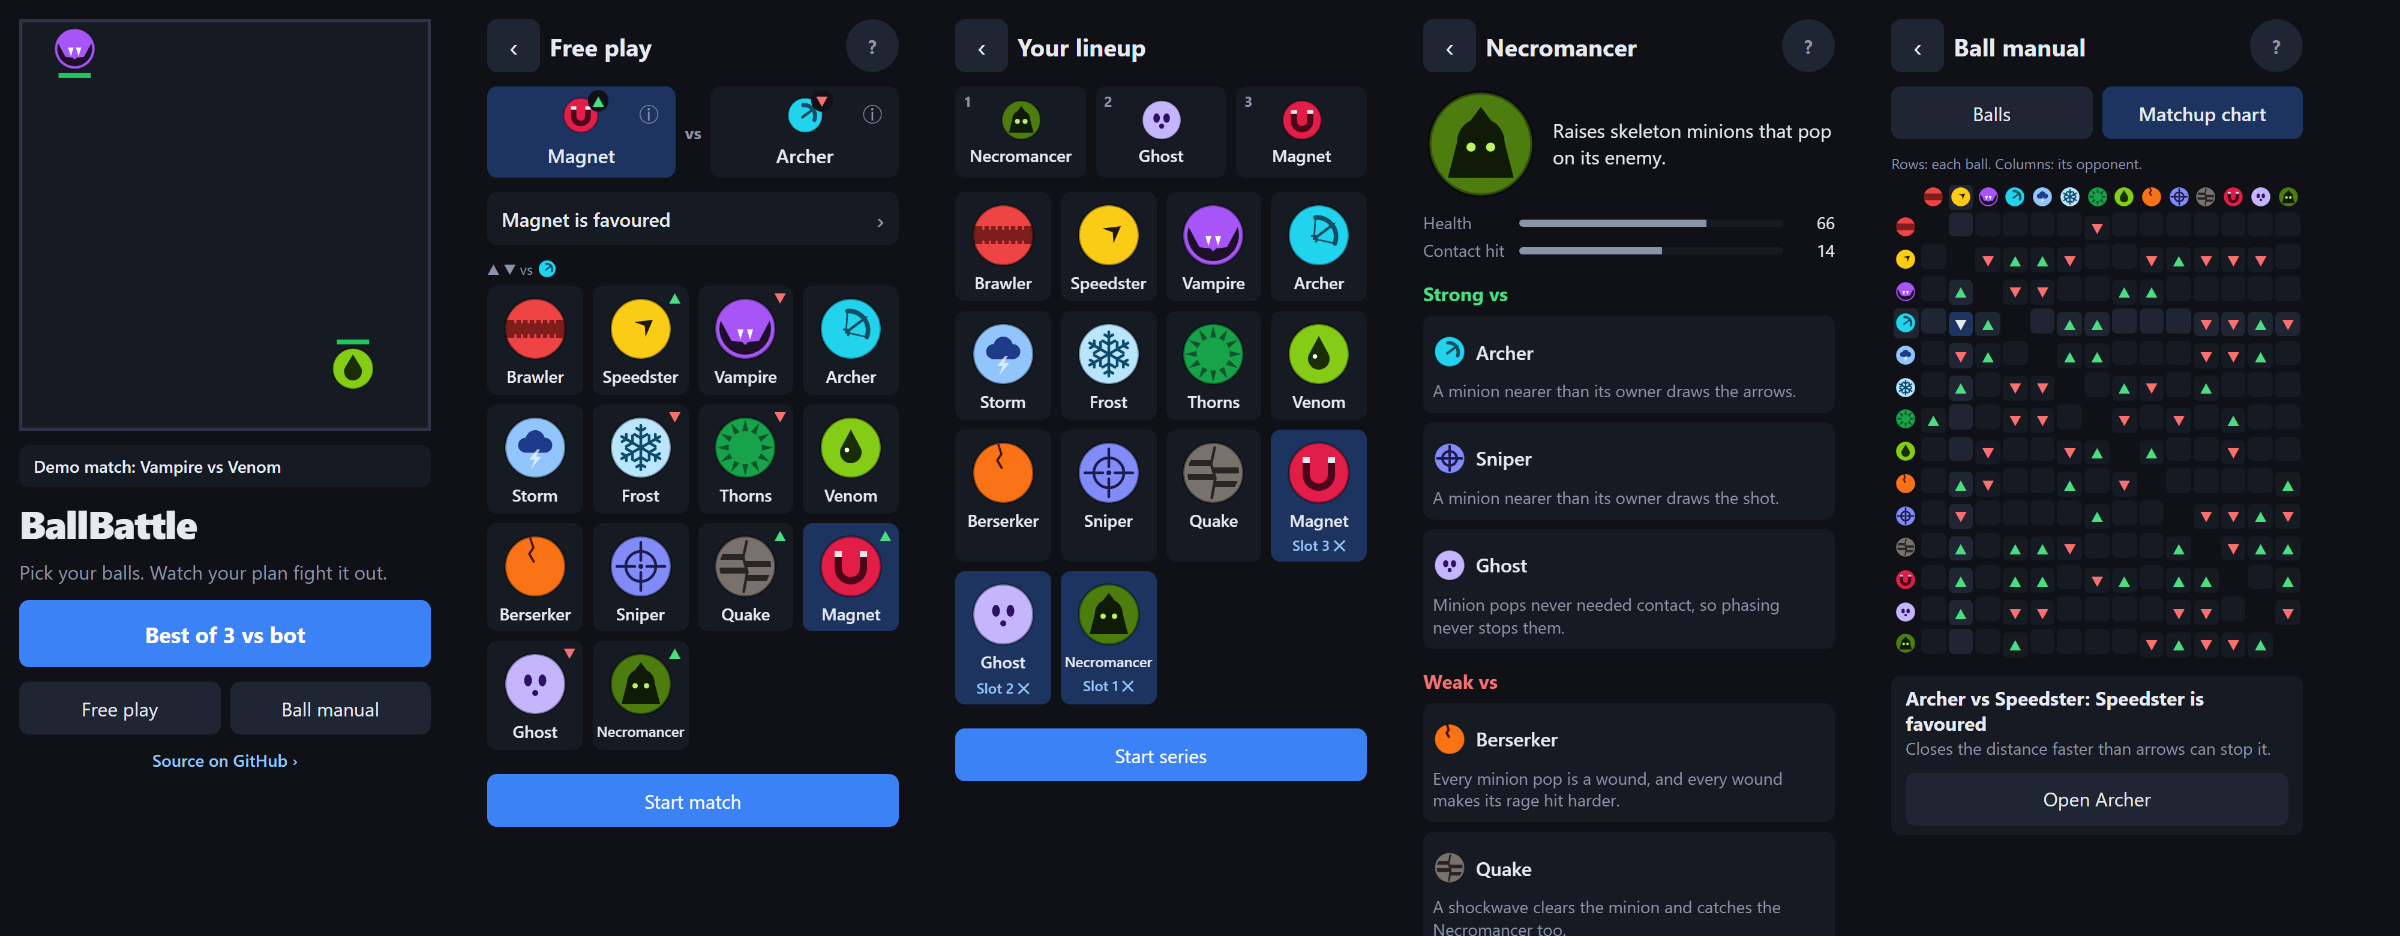
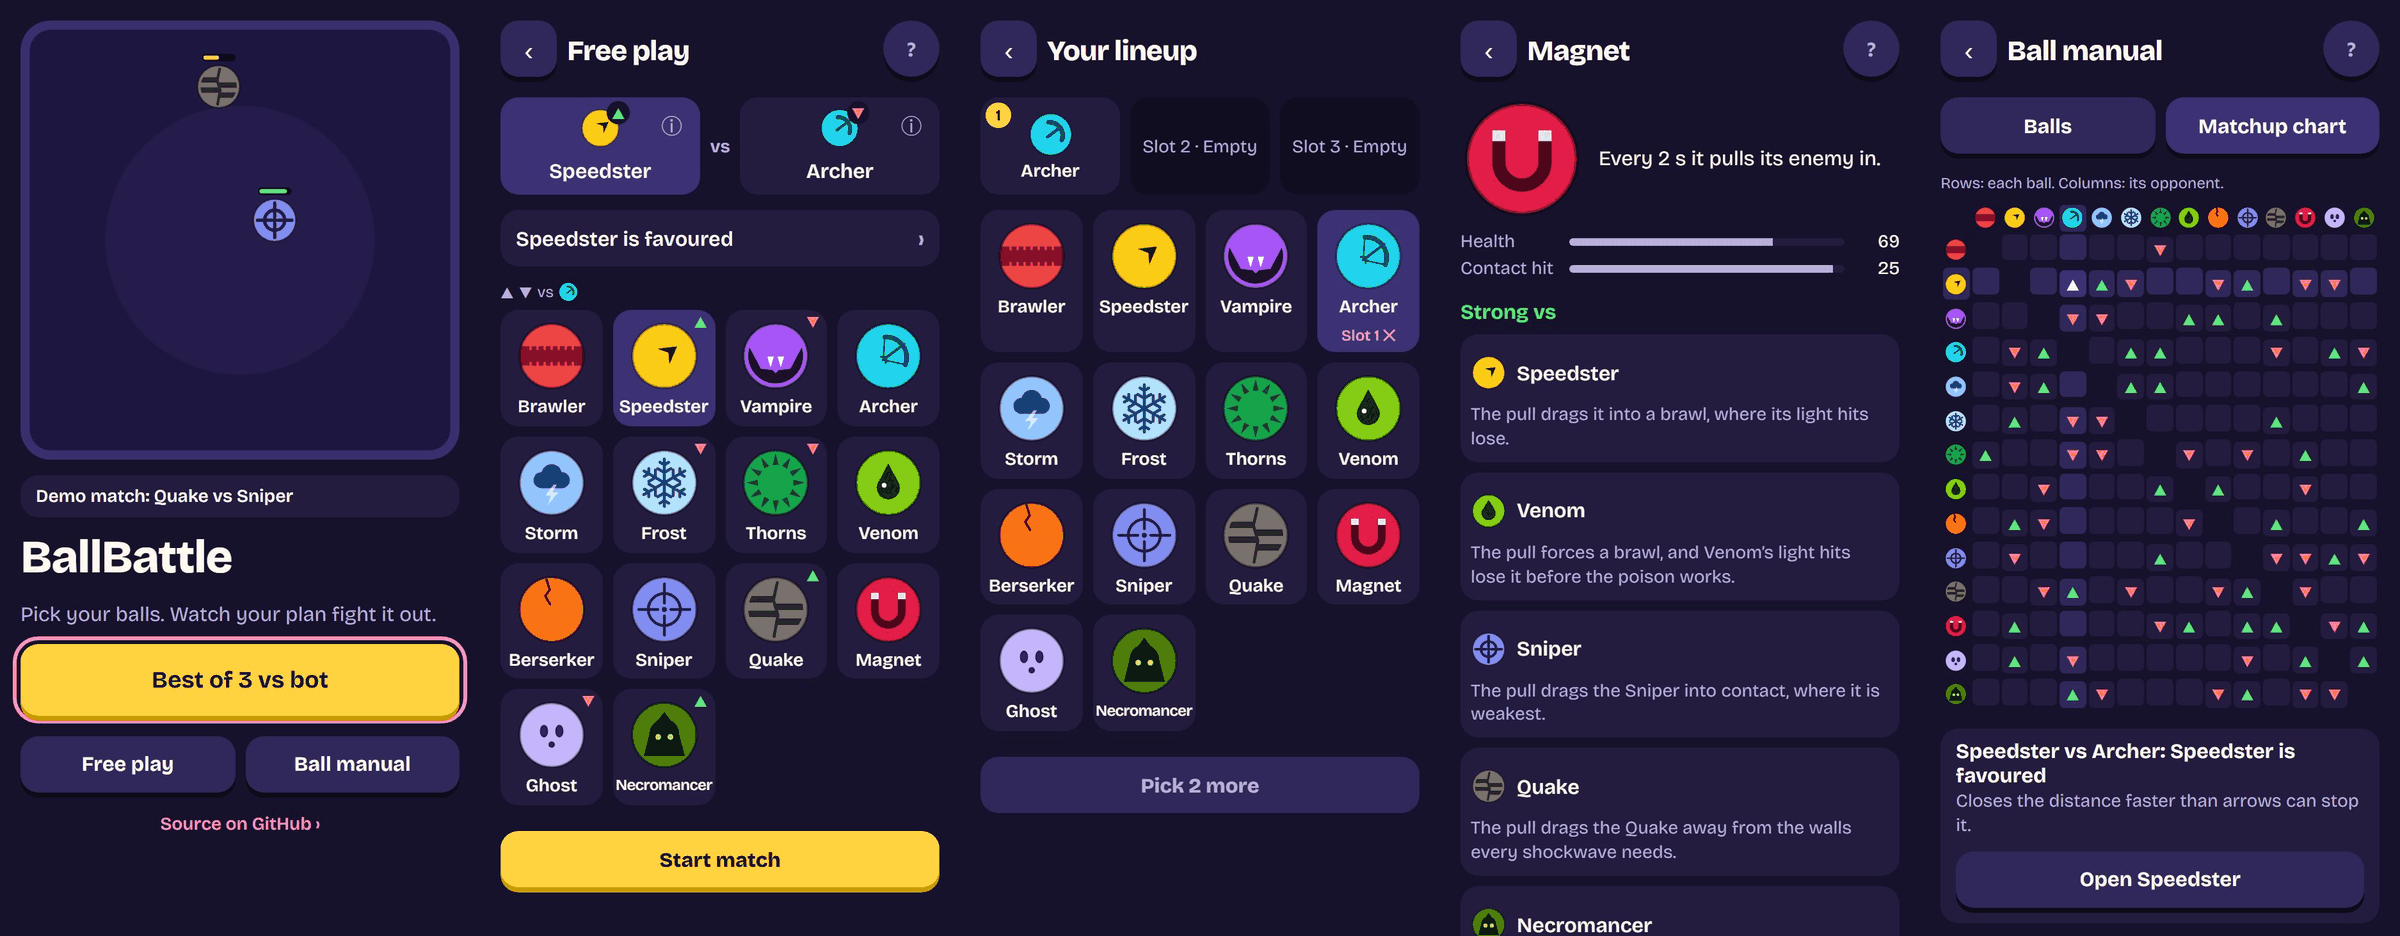
docs: ADR 0032 for the Sticker Pop restyle, with before and after screens
Records the split the restyle keeps (a calm platform, the energy in the arena),
the font and CSP, the new roles, the sticker's timing, the measured contrast of
every ball on the floor, and before and after screenshots of every screen at
375 x 812 and 1280 x 800. CLAUDE.md lists the ADR and the rule; the README's
screenshot shows the new look.

diff --git a/docs/decisions/0032-sticker-pop-restyle.md b/docs/decisions/0032-sticker-pop-restyle.md
@@ -1,0 +1,178 @@
+# 0032: The Sticker Pop restyle: a calm platform, a playful arena
+
+- Status: Accepted
+- Date: 2026-11-06
+- Amends: ADR 0020 (§6 fonts and the CSP), ADR 0031 (the look only; no layout changes)
+
+## Context
+
+The UI was a functional dark slate: the system font, one blue accent and a flat `#161a23` arena
+with a slate border. It worked, but had no character, and the match (the part people watch) looked
+the same as the menus. The brief:
+
+- **Platform screens** (home, setup, the manual, notices) should look like a high-end modern app:
+  sleek and confident, never tacky.
+- **The arena and match moments** (the court, the HUD, the result) should be fun and gamified.
+- The two must feel like one product.
+- Ball designs stay exactly as they are and must still stand out.
+
+Three directions were mocked up with the game's own renderer playing real matches (Obsidian,
+Sticker Pop, Prime Time). Sticker Pop was chosen, with a guardrail: keep it restrained on the
+platform screens and put the energy in the arena.
+
+Presentation only: `src/sim`, URLs, Back, layouts and `RULESET_VERSION` are unchanged.
+
+## Decision
+
+### 1. One family, self-hosted
+
+- **The font.** Bricolage Grotesque (OFL), the variable weight axis, from
+  `@fontsource-variable/bricolage-grotesque`. Vite emits the woff2 files into `/assets`, and the
+  browser loads only the subsets a page uses: the Latin file, 41 kB.
+- **The CSP.** `font-src 'self'` is added in `scripts/security-headers.ts` and `netlify.toml`.
+  Checked on `pnpm preview` in Chromium, Firefox and WebKit: no CSP errors.
+- **Headings** use the family's 800 weight (`--font-weight-display`), with no second display face.
+- **Glyphs the family lacks** (▲ ▼ ✕ ×) fall back to the system font, as they did before. The Back
+  chevron ‹ reads as a bracket in this family, so it uses `--font-family-symbol`.
+
+### 2. Tokens: a change of values, plus a few roles
+
+The palette in `tokens.css` is deep plum ink, warm cream text, a sunny yellow primary
+(`--color-accent`, with dark text) and a hot pink second accent (`--color-accent-2`).
+
+- **Pink is used sparingly:** links, the focus ring, and the chosen speed during a match.
+- **New roles:**
+  - `--color-slab`, `--color-accent-slab` and `--color-accent-2-slab`, with `--shadow-slab`,
+    `--shadow-accent-slab` and `--press-depth`: the band under a chunky button.
+  - `--color-sticker`, `--radius-large` and `--font-family-symbol`.
+  - `--font-weight-display` and `--letter-spacing-display`.
+- `--color-won` is now the yellow, so a round's winner reads differently from a favoured matchup
+  (green).
+
+### 3. The platform stays calm
+
+- **Chunky buttons.** Buttons, the Back and `?` buttons, and segmented choices sit on a 4 px slab,
+  and a press pushes them into it. The slab is part of the button's box, so a press never moves
+  anything around it.
+- **Disabled buttons** are flat, with no slab to press, and use muted text instead of fading a
+  yellow to brown.
+- **Cards, tiles and the manual** keep flat fills: no slabs, tilts or second accent.
+- **Selection** keeps the violet `--color-selected`. Only the in-match speed toggle (`.speed-toggle`)
+  uses pink for its chosen option, and the manual's tabs stay violet.
+- Spacing and layouts are untouched (ADR 0031).
+- On a phone, long ball names (`data-long`) tighten slightly, so "Necromancer" stays on one line
+  in Bricolage's wider letters.
+
+### 4. The energy goes to the arena
+
+**The court** (`drawArena`, `theme.ts`):
+
+- A deep indigo floor (`#1d1640`) with a tonal centre circle (`#251c4b`), inside a chunky rounded
+  rim (`#3a2f6e`, 22 world units).
+- The court's corner radius equals a ball's radius, so a ball wedged in a corner is never drawn
+  over the rim.
+- It uses flat fills only, with no gradients or shadows. A frame costs two rounded rectangles and
+  a circle, the same on a phone.
+
+**Health pills.** The bars over the balls are chunky pills: a dark track with the fill inset 4
+units, so each bar has a dark edge on any ball and floor. The HUD's bars are pills to match.
+
+**The Winner sticker** (`src/ui/winner-sticker.ts`): a tilted cream card on a yellow slab, with
+the winner's drawing (the repeat shade in a mirror match), "Winner!" and its name.
+
+- **When it lands.** 750 ms (effect time) before the result: after the knockout's slow-mo and
+  shards, and at once for a time-limit end. On a phone the round screen replaces the arena when
+  the result shows, so in a series round the sticker gets its moment in between. A quick match's
+  result keeps it.
+- **Confetti** is capped at 12 pieces (`src/ui/confetti.ts`), in a deterministic burst. It pops
+  once in 650 ms, animating only transform and opacity, so the browser composites it without
+  touching the canvas.
+- **Reduced motion:** the sticker appears without the pop.
+- **Accessibility:** it is `aria-hidden`, because the HUD's live region already announces the
+  result.
+
+**Other effects.** The winner ring is the yellow and impact particles a warmer yellow. Effects keep
+their timings (ADR 0007).
+
+### 5. Every ball stands out on the floor
+
+`arena-contrast.test.ts` checks every ball's colour, and its lighter mirror-match shade, against
+both floor tones at WCAG's 3:1 for graphics. It fails for a floor too light for the dark balls: a
+`#3a3a4a` centre fails five balls.
+
+The weakest pairs, on the centre circle and then the floor:
+
+| Ball        | Old floor | New floor | Centre |
+| ----------- | --------- | --------- | ------ |
+| Necromancer | 3.49      | 3.39      | 3.12   |
+| Quake       | 3.63      | 3.53      | 3.25   |
+| Magnet      | 3.71      | 3.60      | 3.32   |
+| Vampire     | 4.40      | 4.28      | 3.94   |
+| Storm       | 9.66      | 9.38      | 8.65   |
+| Ghost       | 9.43      | 9.17      | 8.45   |
+| Frost       | 13.12     | 12.75     | 11.75  |
+
+The pale balls stand out by a wide margin. The dark ones are about where they were on the old
+floor, and each keeps its darker `ballOutline` as well.
+
+### 6. Brand images
+
+- `/brand.html` draws with the new palette and font. The link preview's roster is now seven to a
+  row: fourteen balls in rows of six ran into the address.
+- The icons, the preview, `theme-color` and the manifest are regenerated.
+- The preview's alt text no longer counts the balls; it said eleven.
+
+### What came from the references
+
+- **Duolingo:** chunky buttons that press into a slab, and one bright primary per screen.
+- **Marvel Snap:** quiet menus and a loud match. The result is a moment, not a line of text.
+- **Linear and Raycast:** discipline on the platform. One family, roles rather than palette names,
+  depth from fills rather than lines.
+- **Balatro:** the tactile, slightly tilted sticker.
+
+## Verification
+
+- **Tests.**
+  - `arena-contrast.test.ts`, shown failing with a too-light floor.
+  - `confetti.test.ts`: the cap, inside the arena, deterministic.
+  - `winner-sticker.browser.test.ts` in Chromium, Firefox and WebKit: the sticker lands after a
+    win, names the HUD's winner, keeps 12 pieces, is `aria-hidden` and goes on Replay. It failed
+    with the sticker never due.
+- **The suites.** Unit, slow and browser suites, lint, typecheck and the build all pass.
+- **Screens.** Every screen was captured before and after at 375 × 812 and 1280 × 800, and
+  checked at 1440 × 900 and 1920 × 1080: home, Free play, a match and its result, the Best of 3
+  rules, lineup, a round, between rounds, the series result, Reveal round 1, the manual (index, an
+  entry, the chart) and an older link.
+
+| Screen          | Phone                              | Desktop                              |
+| --------------- | ---------------------------------- | ------------------------------------ |
+| Home            | ![](0032/home-phone.jpg)           | ![](0032/home-desktop.jpg)           |
+| Free play       | ![](0032/free-play-phone.jpg)      | ![](0032/free-play-desktop.jpg)      |
+| Match           | ![](0032/match-phone.jpg)          | ![](0032/match-desktop.jpg)          |
+| Match result    | ![](0032/match-result-phone.jpg)   | ![](0032/match-result-desktop.jpg)   |
+| Best of 3 rules | ![](0032/rules-phone.jpg)          | ![](0032/rules-desktop.jpg)          |
+| Lineup          | ![](0032/lineup-phone.jpg)         | ![](0032/lineup-desktop.jpg)         |
+| A round         | ![](0032/round-phone.jpg)          | ![](0032/round-desktop.jpg)          |
+| Between rounds  | ![](0032/between-rounds-phone.jpg) | ![](0032/between-rounds-desktop.jpg) |
+| Series result   | ![](0032/series-result-phone.jpg)  | ![](0032/series-result-desktop.jpg)  |
+| Reveal round 1  | ![](0032/reveal-round-1-phone.jpg) | ![](0032/reveal-round-1-desktop.jpg) |
+| Manual: balls   | ![](0032/manual-index-phone.jpg)   | ![](0032/manual-index-desktop.jpg)   |
+| Manual: entry   | ![](0032/manual-entry-phone.jpg)   | ![](0032/manual-entry-desktop.jpg)   |
+| Matchup chart   | ![](0032/matchup-chart-phone.jpg)  | ![](0032/matchup-chart-desktop.jpg)  |
+| Older link      | ![](0032/older-link-phone.jpg)     | ![](0032/older-link-desktop.jpg)     |
+
+The bot's lineup is random, so the series screens show different balls before and after.
+
+## Consequences
+
+- **Positive:** the game has a character, and the match is where it shows. The platform stays as
+  calm as before, with the same layouts and the same rules.
+- **Positive:** the restyle stayed a change of values. The canvas changes are the court, the pills
+  and theme colours. The only new code is the sticker, a tested contrast check and a pure confetti
+  layout.
+- **Negative:** one runtime dependency, the font package. It holds only font files and CSS.
+- **Negative:** the sticker covers the middle of the arena at a quick match's result. The last
+  frame matters less than who won, and Replay is one tap away.
+- **Open:** the Necromancer's name in the HUD (its own dark green on the page) is 3.6:1. It is bold
+  but below 4.5:1 for text, as it was on the old page. Ball names take their ball's colour by design
+  (ADR 0020), so a fix belongs to a wider look at ball-coloured text.

diff --git a/CLAUDE.md b/CLAUDE.md
@@ -120,8 +120,8 @@ aiming created no skill), `docs/decisions/0019-draft-formats.md`,
 `docs/decisions/0025-show-less-and-back.md`,
 `docs/decisions/0026-magnet-ghost-necromancer.md`, `docs/decisions/0027-phone-play-fixes.md`,
 `docs/decisions/0028-counter-pass.md`, `docs/decisions/0029-reveal-coin-toss.md`,
-`docs/decisions/0030-symbol-tooltips-and-result-fixes.md` and
-`docs/decisions/0031-desktop-layouts.md`.
+`docs/decisions/0030-symbol-tooltips-and-result-fixes.md`,
+`docs/decisions/0031-desktop-layouts.md` and `docs/decisions/0032-sticker-pop-restyle.md`.
 
 ## Workflow
 
@@ -232,7 +232,10 @@ aiming created no skill), `docs/decisions/0019-draft-formats.md`,
   entry. A new screen gets a key in `screenKeyOf` and a flow in `history-rules.test.ts`. Leaving
   an undecided series holds it to resume; never drop it on Back.
 - Page colours, sizes and type come from roles in `src/styles/tokens.css`, never palette names or
-  literals. A component's stylesheet sits next to it and is listed in `src/style.css` in cascade
+  literals. The look is Sticker Pop (ADR 0032): one self-hosted family (Bricolage Grotesque, CSP
+  `font-src 'self'`), calm platform screens (flat fills, the pink second accent used sparingly) and
+  the energy in the arena and match moments (the court, health pills, the Winner sticker). Keep
+  that split; every ball must keep 3:1 against the floor (`arena-contrast.test.ts`). A component's stylesheet sits next to it and is listed in `src/style.css` in cascade
   order; create the file before adding its `@import` (the dev server caches a missing import).
 - Ball and matchup text in the UI is read from the definitions and the counter map
   (`src/ui/balls/matchups.ts`); it says "favoured", never a measured win rate.
